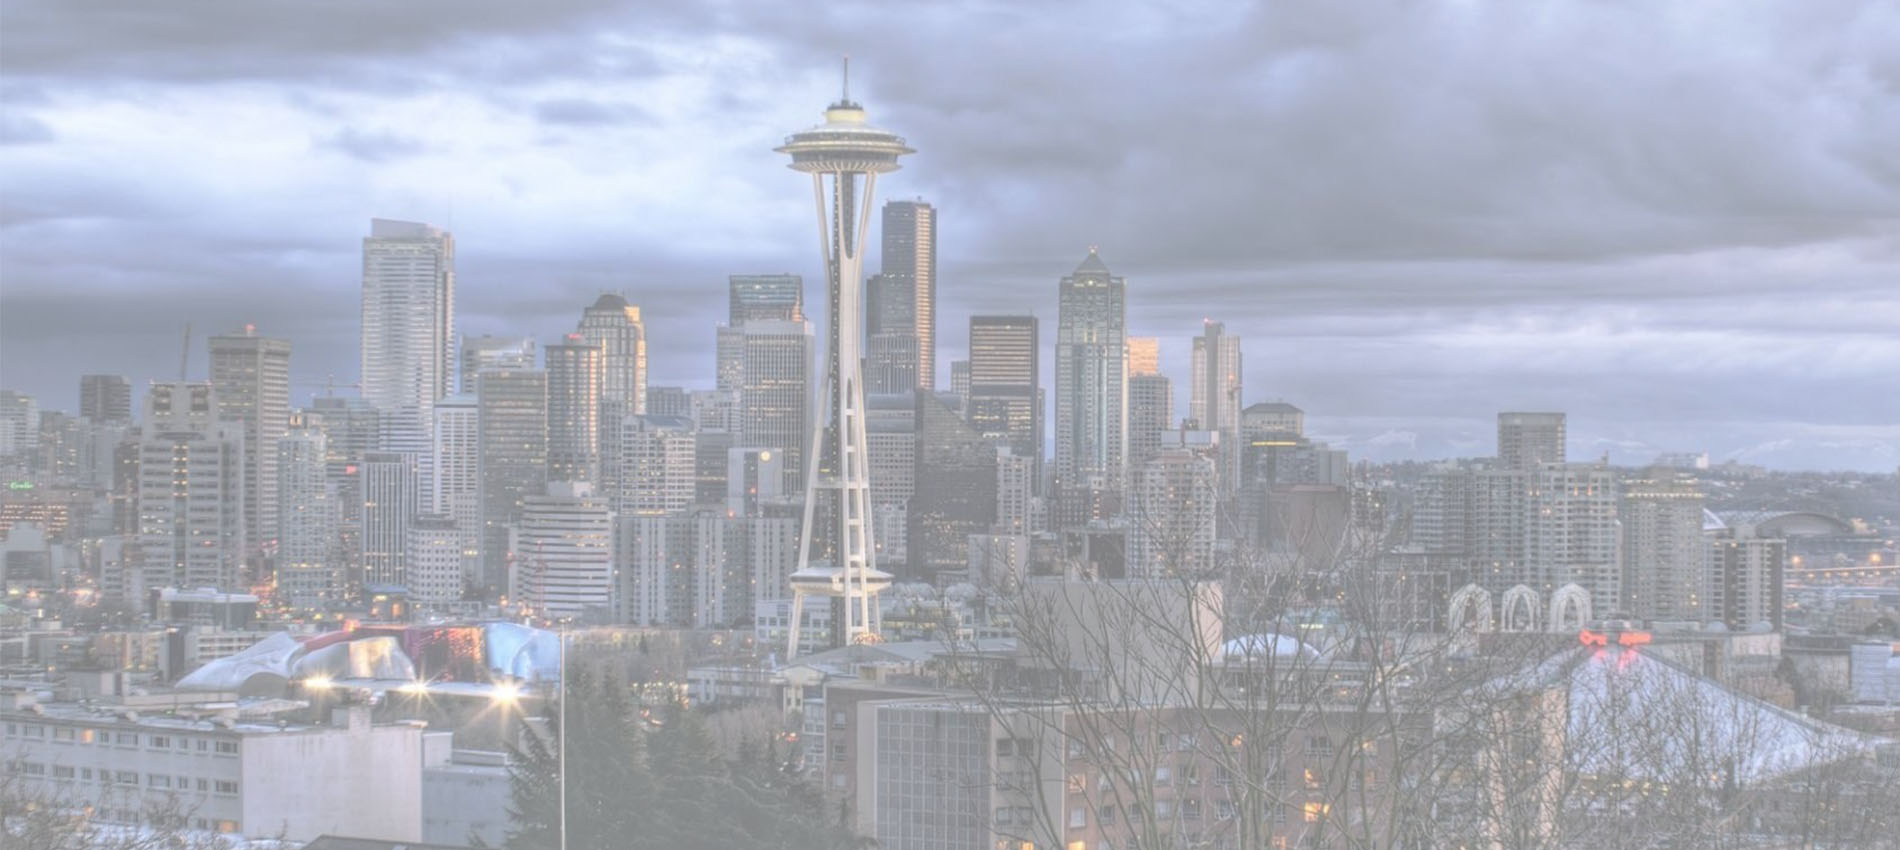
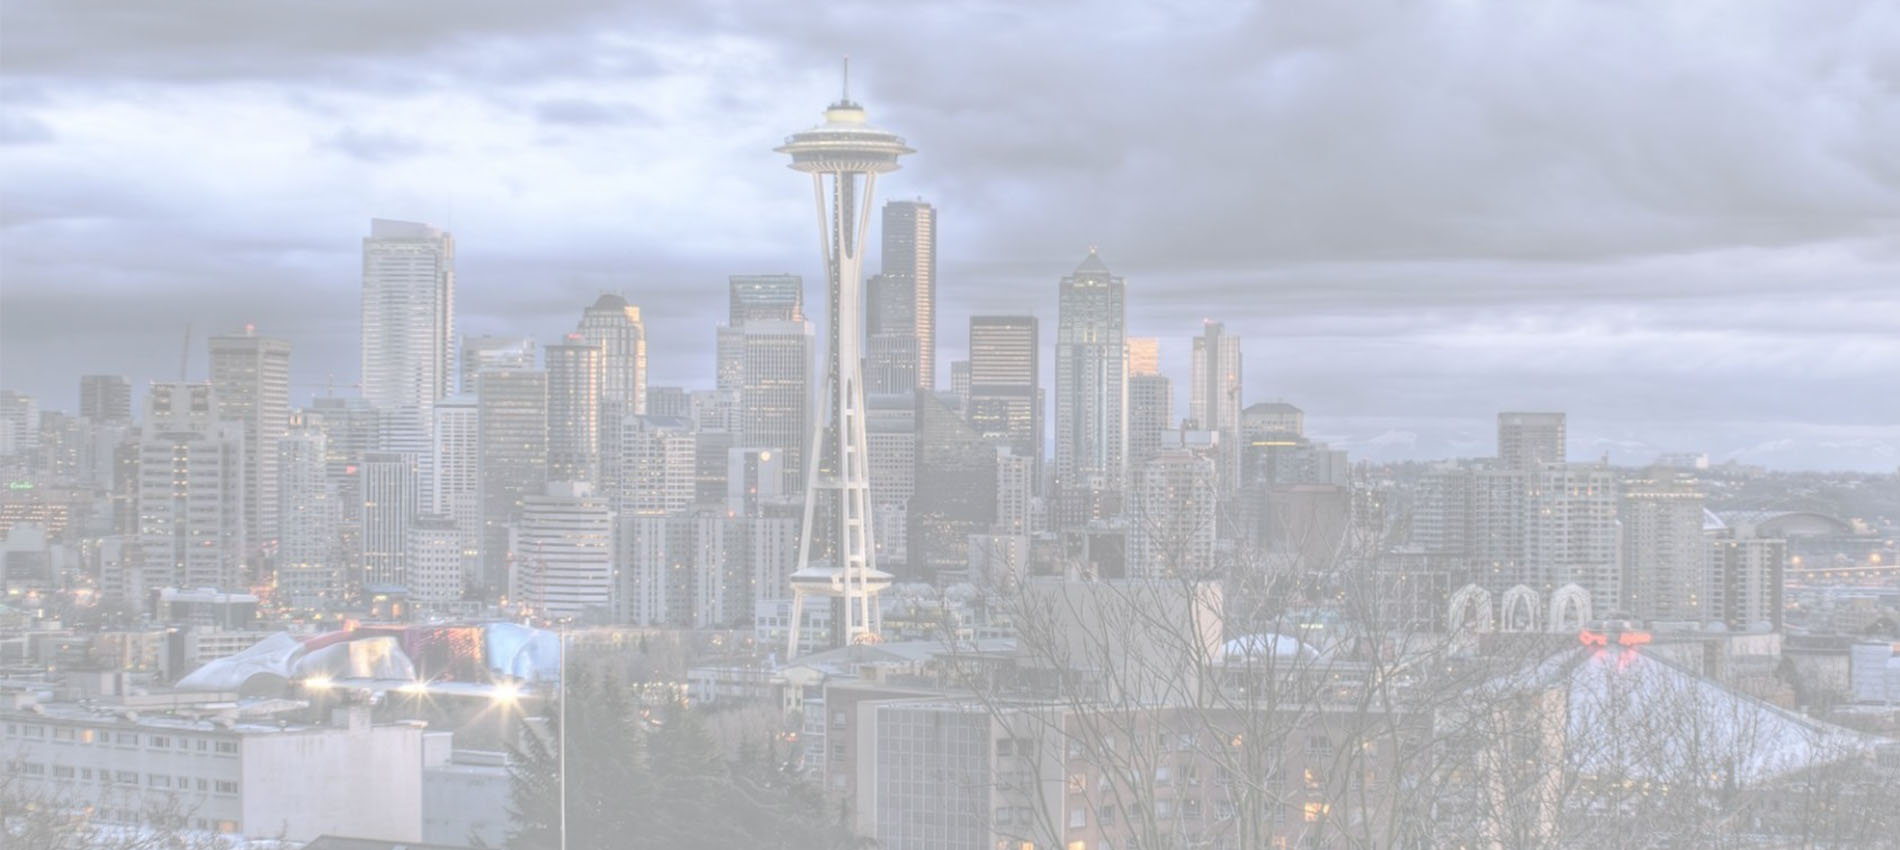
fixed bg image

Changed region(s): [[0.0, 0.1529, 1.0, 1.0], [0.3105, 0.3365, 0.3416, 0.3976], [0.6211, 0.2753, 0.6521, 0.3059]]

diff --git a/style/nav.css b/style/nav.css
@@ -39,7 +39,7 @@
   left: 0;
   height: 100%;
   width: 100%;
-  background: linear-gradient(to right, rgba(255,255,255,0) 0%, rgba(255,255,255,0) 0%, rgba(255,255,255,0) 0%, rgba(255,255,255,0.18) 18%, rgba(255,255,255,1) 100%);
+  background: linear-gradient(to right, rgba(255,255,255,0.32) 0%, rgba(255,255,255,0.65) 48%, rgba(255,255,255,1) 100%);
 }
 
 .banner-bg-opaque {
